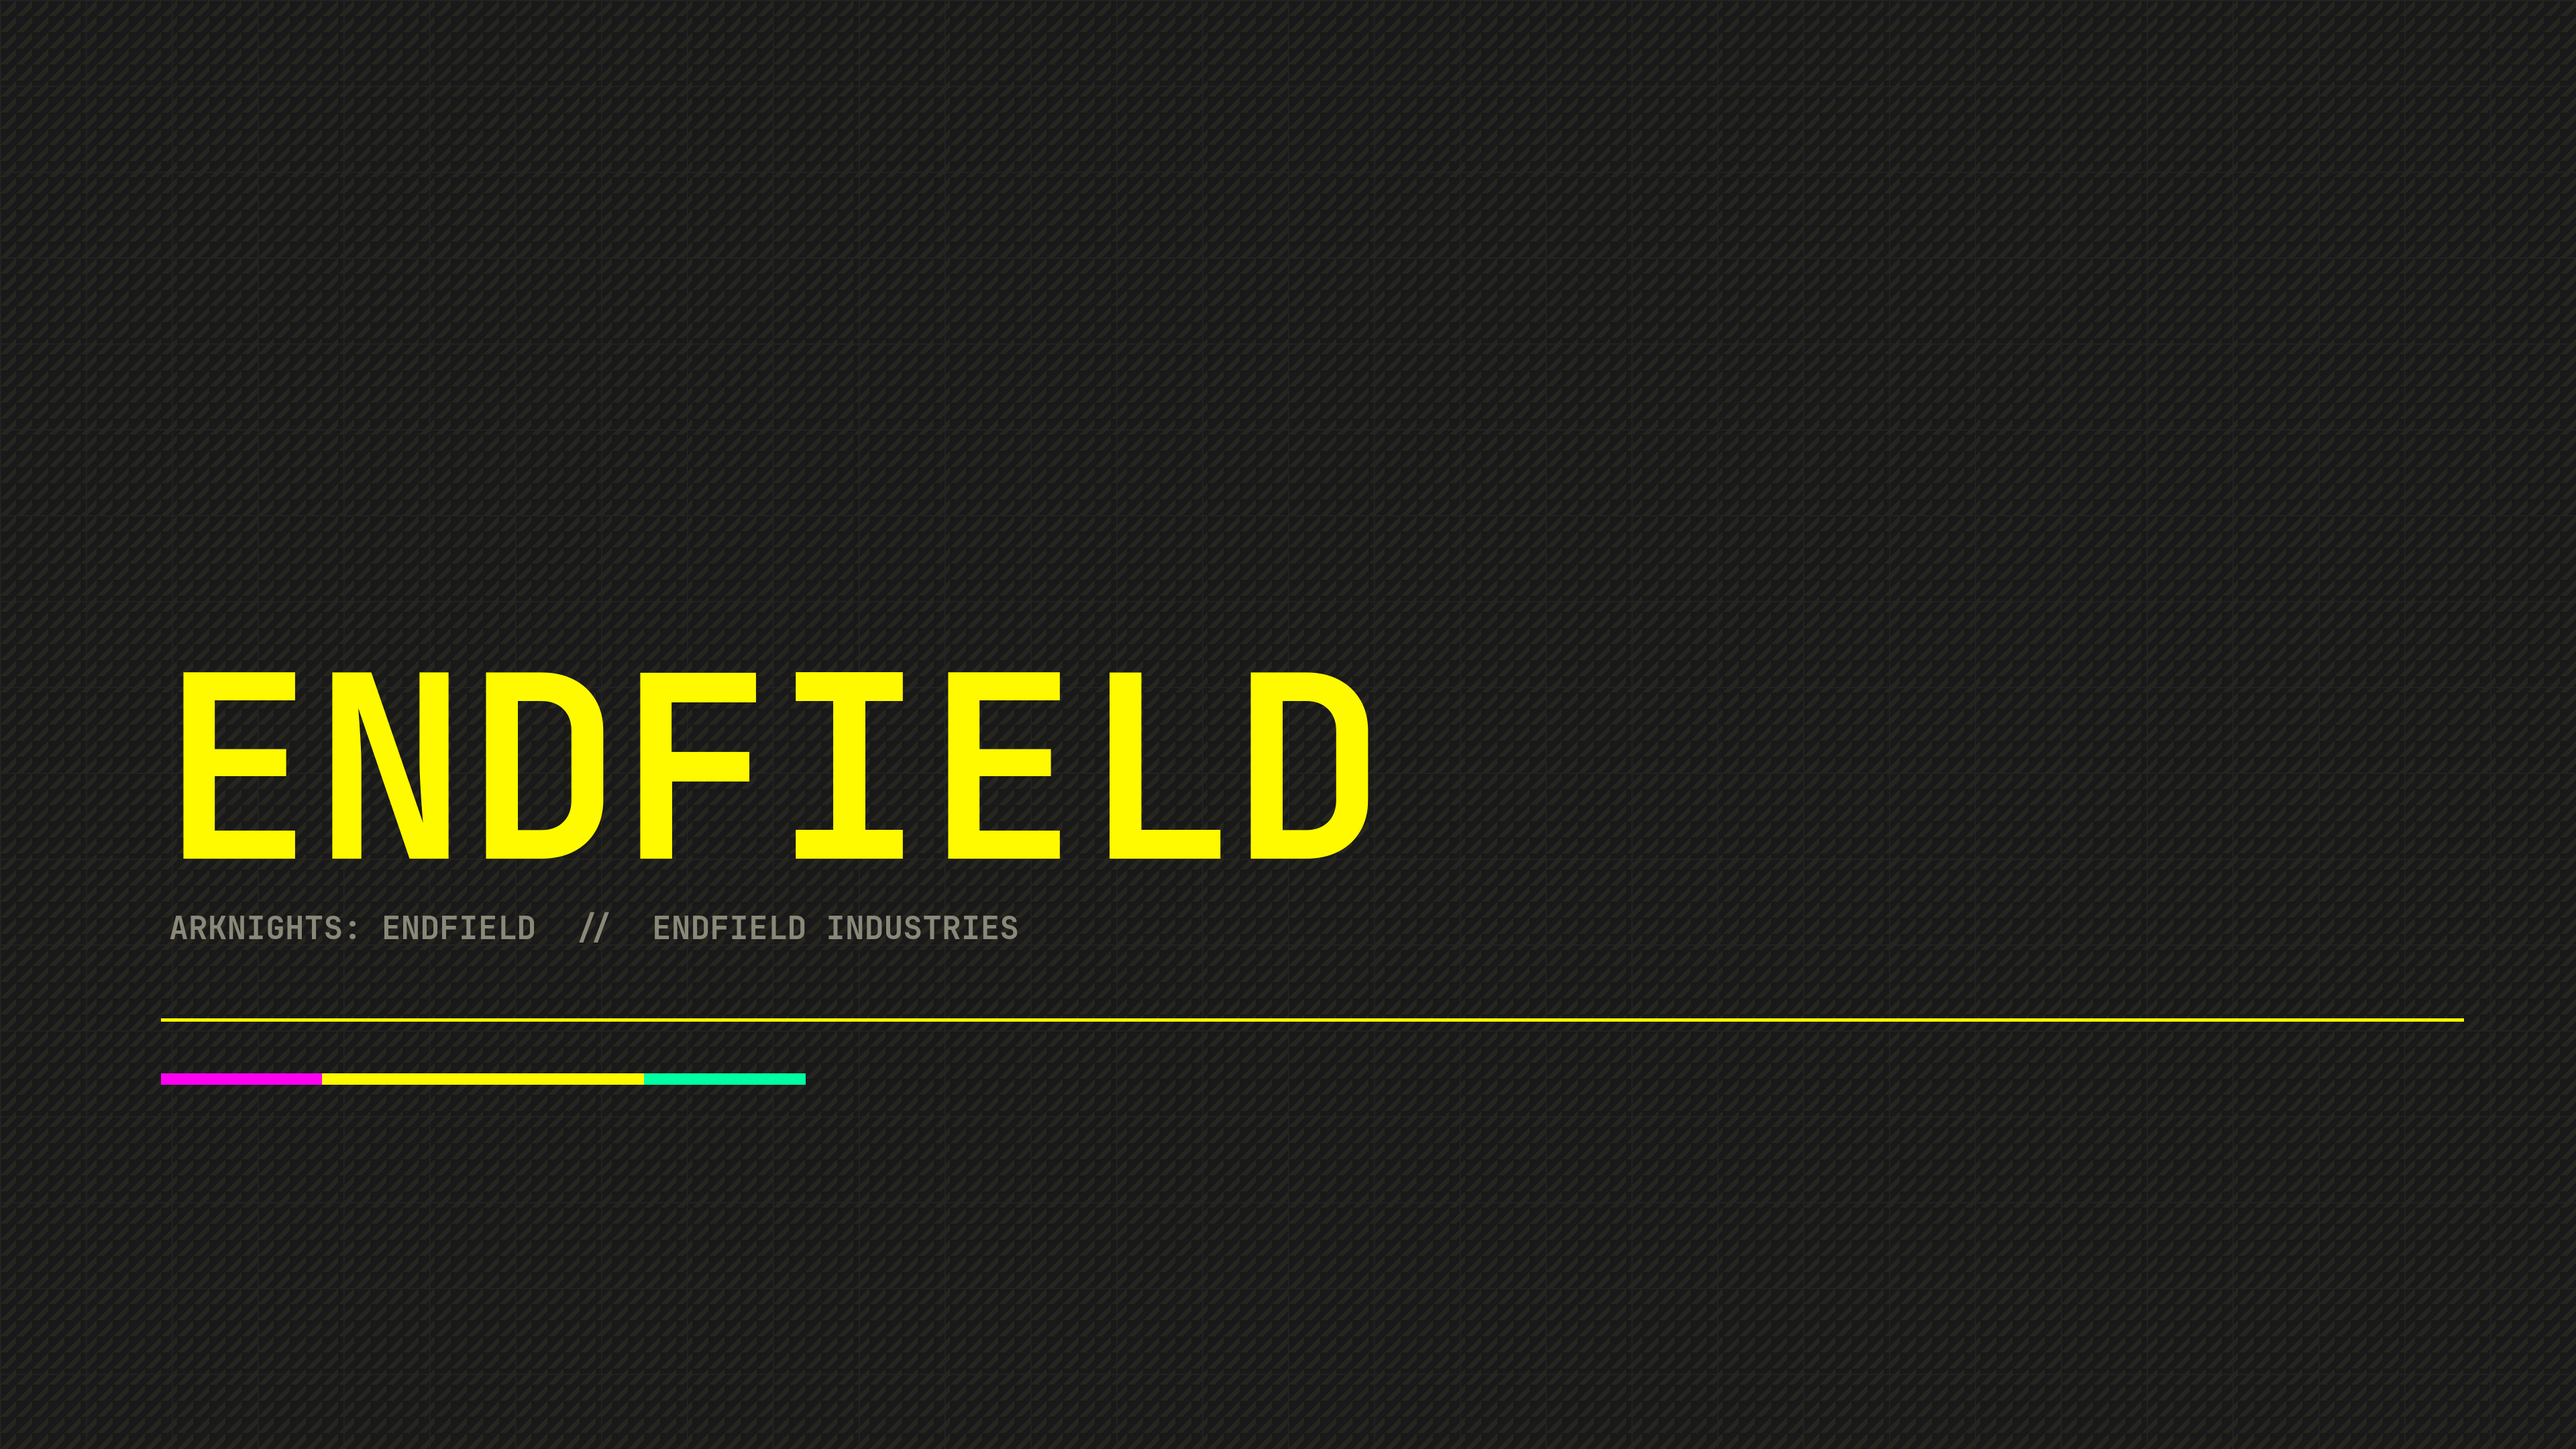
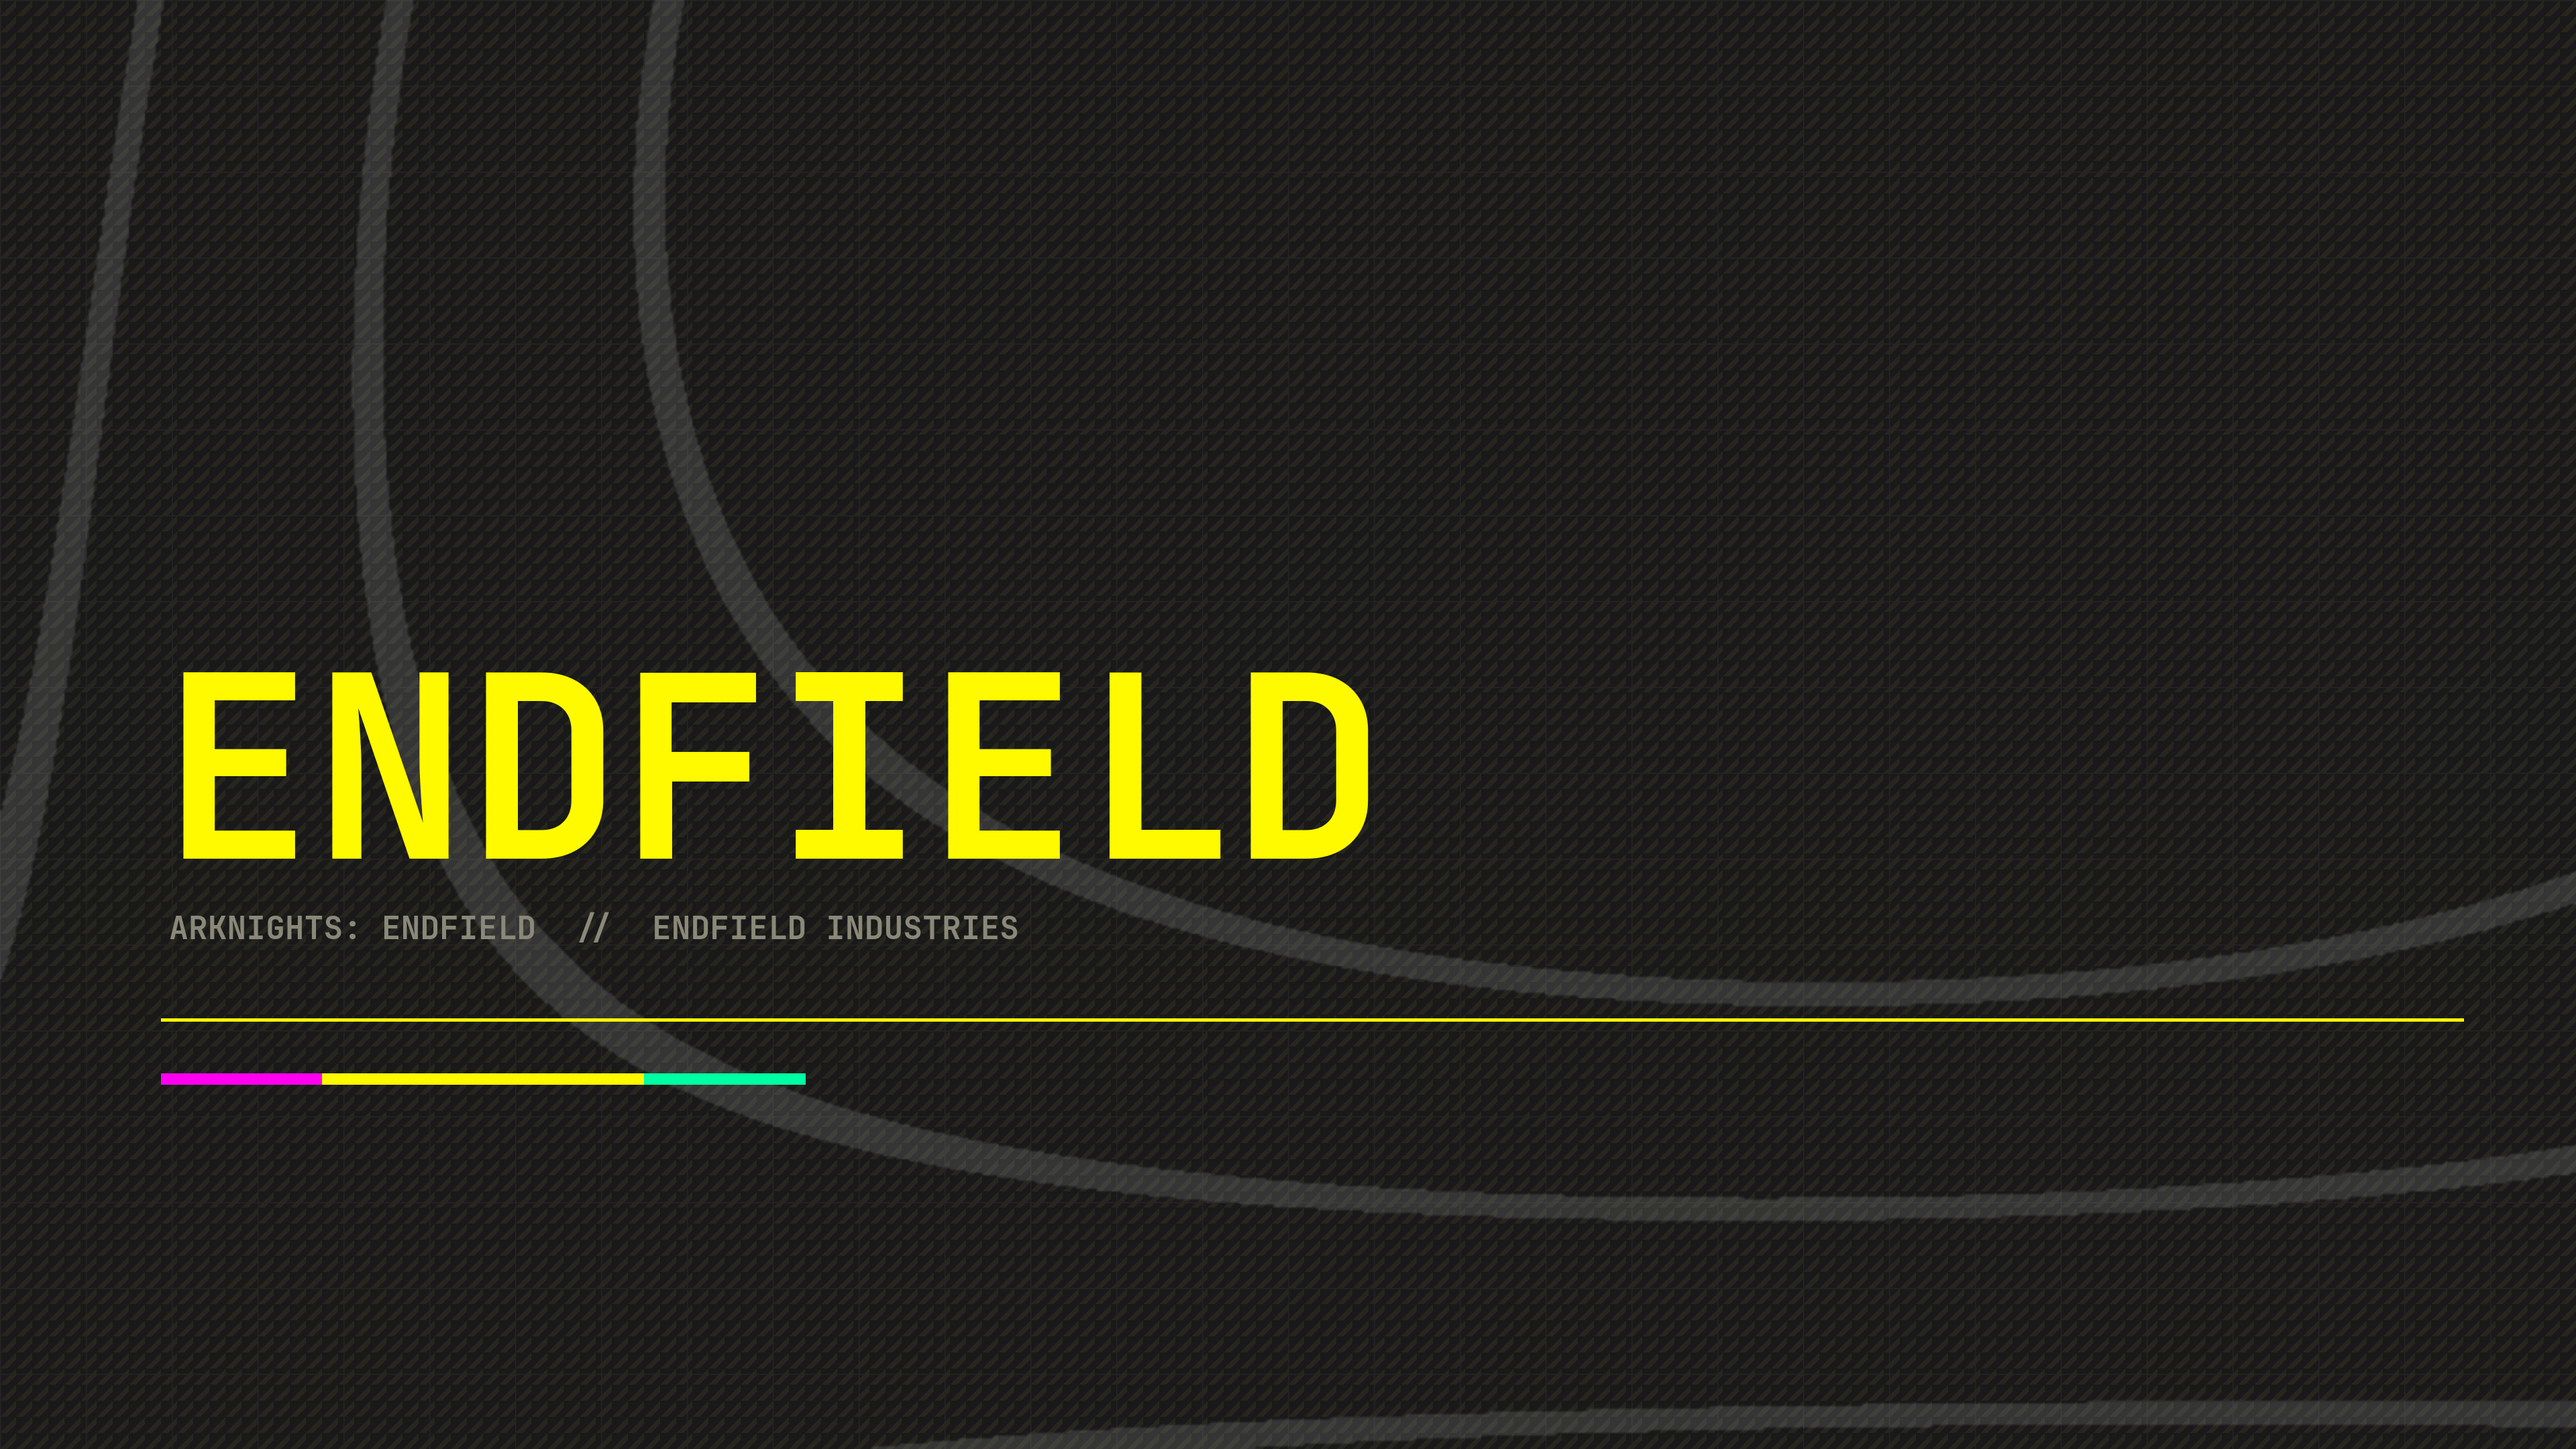
Follow the design write-up: contour texture and the game's real panel tone
The dark wallpaper picks up the stacked equal-interval curves the write-up
calls a higher-order geometric texture, and the dark variant moves to the
neutral near-black the UI archives actually sample (#1E1E19 family) rather
than the scenery's blue.

diff --git a/ASSETS.md b/ASSETS.md
@@ -28,15 +28,39 @@ Its two recurring idioms are copied directly:
   — the magenta/yellow/mint signal band, redrawn by `signal_band` in
   `make-backgrounds.sh`.
 
-**The community footage** linked as reference (`BV19q3G6REyu`,
-`BV1PUdpBLETP`) — frame sampling put signal yellow `#FBFA0D` first by area,
-then rust `#9B8570`, deep blue-black `#2B4D69` / `#172733` / `#05080B`, mint
-`#8CB4B3` / `#75AFAA` and cool white `#E9E8E5`. That is the basis of
-`variants/dark/colors.toml`.
+**The in-game UI archives** (Bilibili opus `1256332716420366418`,「新版本导览」,
+and `1251580820439695369`,「挽弓试炼」) — sampling the seventeen archived
+screenshots puts the panel fields at neutral near-black `#1E1E19` / `#232323` /
+`#191A1A` / `#202124` and the type at warm off-white `#ECEAEB` / `#F3F2E8`,
+with signal yellow reserved for filled blocks (the selected navigation tab,
+the confirm button). The same archive shows the 45° hatch used as a yellow
+warning block, exactly as the site styles it.
+
+**The community footage** (`BV19q3G6REyu`, `BV1PUdpBLETP`) — frame sampling put
+signal yellow `#FBFA0D` first by area, then rust `#9B8570`, deep blue-black
+`#2B4D69` / `#172733` / `#05080B`, mint `#8CB4B3` / `#75AFAA` and cool white
+`#E9E8E5`. The blue belongs to the scenery; the panels read as the neutral dark
+above, which is what `variants/dark/colors.toml` uses.
 
 Colours the site never uses (a terminal needs an orange, a green, a brown)
 are shaded from a measured signal so they stay legible on paper white, and
 `check-contrast.py` fails if any of them drops below its WCAG floor.
+
+## Reference reading
+
+The design notes this theme was built against, recorded so the reasoning stays
+auditable:
+
+* Harry Huang, *《终末地》UI 设计分析* —
+  <https://blog.harryh.cn/Design/UI-Philosophy-Of-Endfield/> (CC BY-NC-SA 4.0).
+  It names the traits implemented here: the **accent block** (a high-contrast
+  fill marking the selected tab — the signal-yellow selected row), **geometric
+  texture** (a dense grid, and for more polish stacked equal-interval curves —
+  the contour layer on the dark wallpaper), and **restrained corner radius**.
+  Radius is the one trait a theme cannot set: the shell mirrors Hyprland's
+  `decoration:rounding`, so square corners come from that setting.
+* The two Bilibili UI archives above, used as palette evidence for the dark
+  variant.
 
 ## Files in `backgrounds/`
 

diff --git a/README.md b/README.md
@@ -56,18 +56,22 @@ roles each one plays on the site.
 | `magenta` | `#A3107F` | Magenta signal, shaded |
 | `blue` | `#35598F` | The key visual's technical blue |
 
-Two house rules follow the site rather than generic theming:
+House rules, taken from the game's own UI rather than generic theming:
 
 * The selected menu/launcher row is a **signal-yellow block with ink text**,
   never a tint of the background.
 * Panels are framed by a hard **2px ink rule**, not a hairline.
+* Texture is geometric — a dense drafting grid on paper, stacked contour
+  curves on the dark field — and frames stay square. The shell mirrors
+  Hyprland's `decoration:rounding`, so square means `decoration:rounding 0`.
 
 ## Dark variant
 
-`variants/dark/colors.toml` is the other half of the aesthetic: the in-game
-tech look (deep blue-black field, signal yellow, mint, rust) sampled from the
-reference footage. It is a variant, not a second theme — copy it over
-`colors.toml` in a hand-written theme directory and re-apply:
+`variants/dark/colors.toml` is the other half of the aesthetic: the game's own
+panels, sampled from the UI archives listed in `ASSETS.md` — neutral near-black
+fields (`#1E1E19`, `#232323`), warm off-white text, signal yellow filled behind
+the selected tab. It is a variant, not a second theme: copy it over the theme's
+`colors.toml` and re-apply.
 
 ```bash
 cp variants/dark/colors.toml ~/.config/omarchy/themes/endfield/colors.toml
